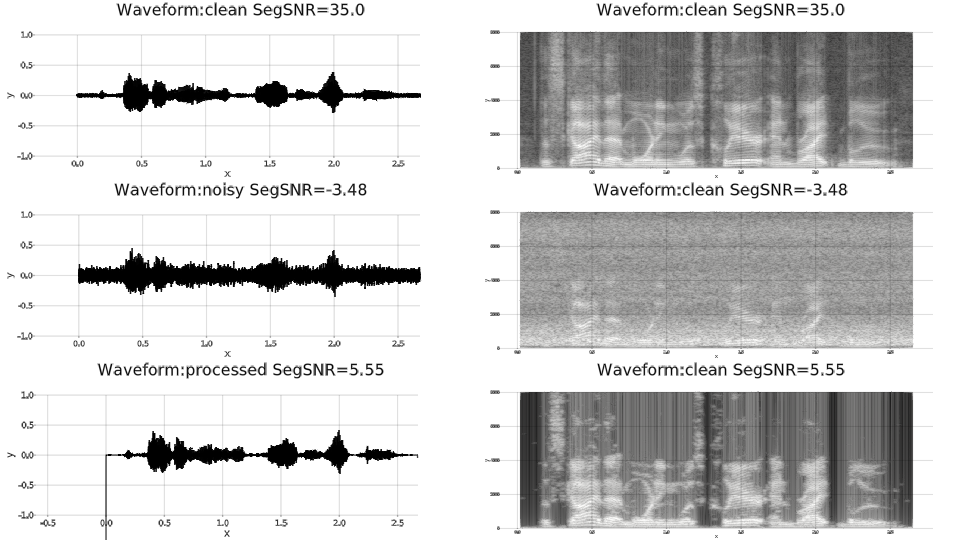
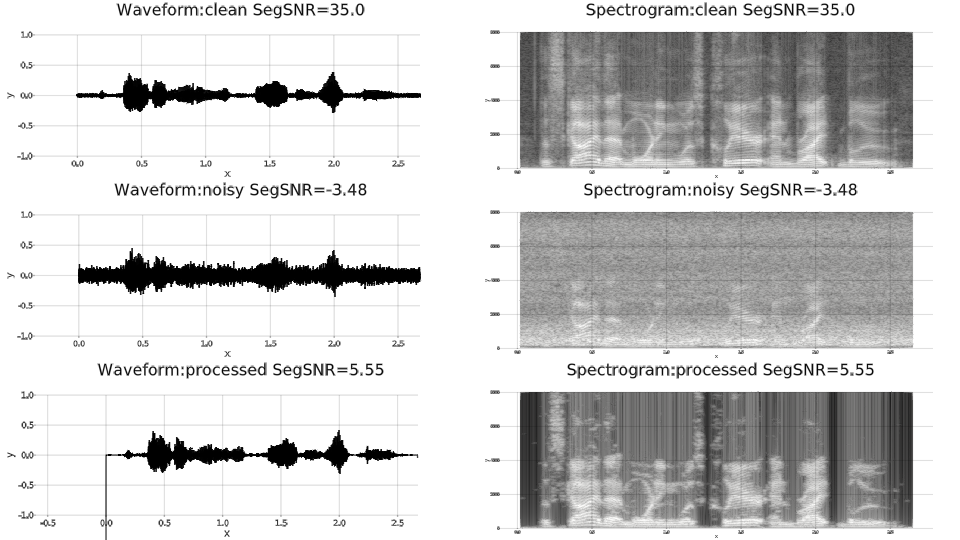
修改标题

Changed region(s): [[0.5938, 0.6519, 0.9062, 0.7111], [0.5938, 0.3259, 0.9062, 0.3852], [0.5938, 0.0, 0.9062, 0.0296]]

diff --git a/IdealBinaryMask/readme.md b/IdealBinaryMask/readme.md
@@ -2,3 +2,4 @@ matlab代码网址
 https://ww2.mathworks.cn/matlabcentral/fileexchange/33199-ideal-binary-mask
 
 julia代码并没有实现matlab的全部选项。
+最后的图也没有参照matlab代码来画。
